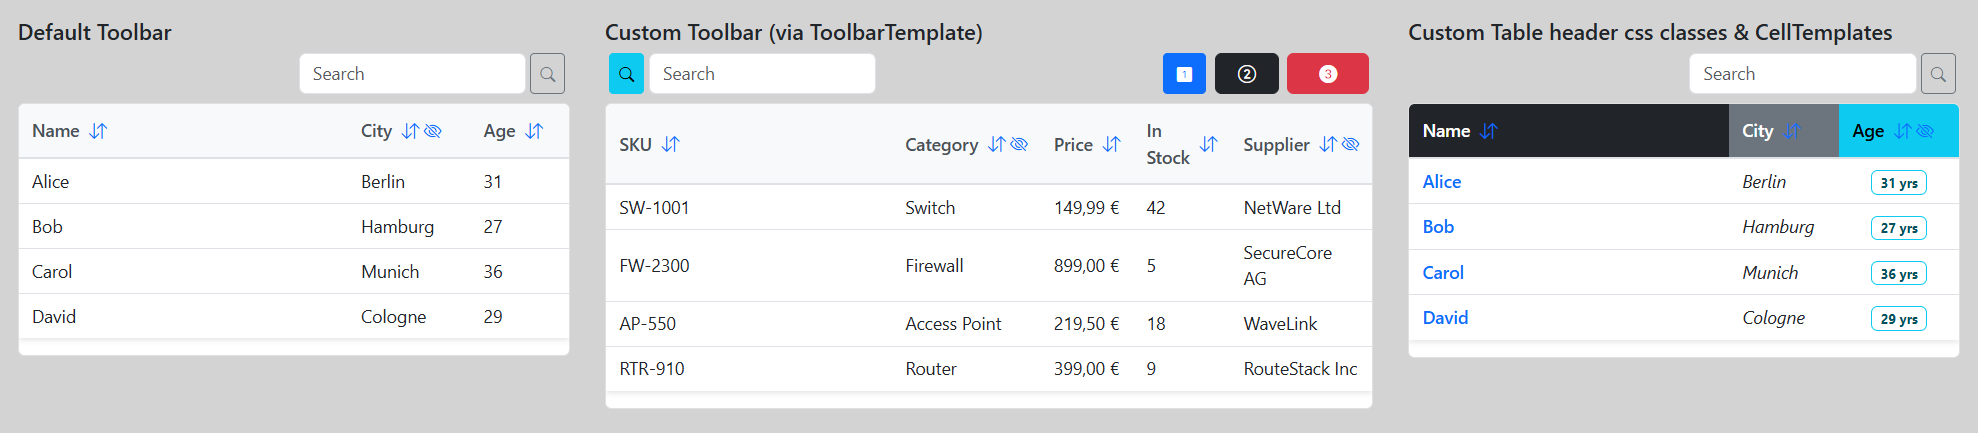
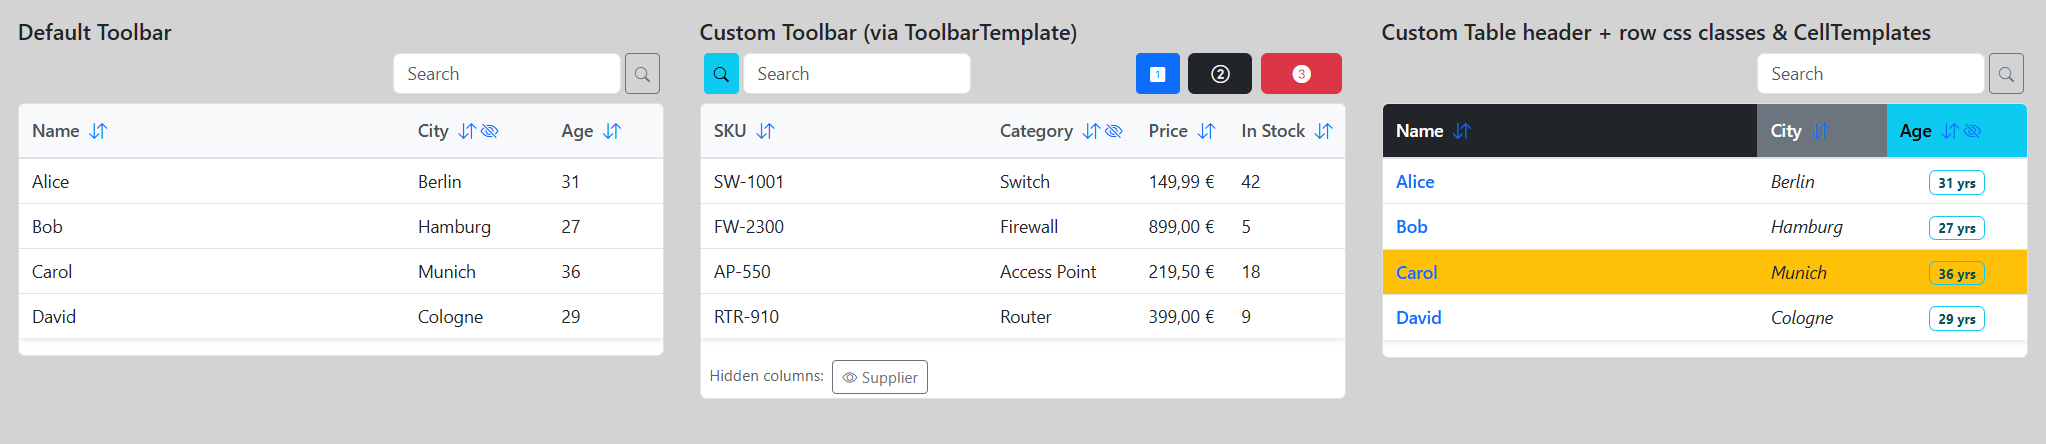
docs(README): expand and clarify usage and features
Significantly improve README documentation:
- Clarify search, sorting, and column visibility features, including fallback behaviors and configuration options.
- Add RowClassSelector to customization and parameters sections.
- Update column configuration table with default values and selector fallbacks.
- Streamline setup instructions for Bootstrap and Bootstrap Icons.
- Rewrite and expand usage examples to cover default/custom toolbars, row/cell/header styling, and cell templates, using new PersonRow and ProductRow records.
- Provide more realistic sample data and demonstrate advanced features.

diff --git a/README.md b/README.md
@@ -1,6 +1,6 @@
 # SoPro.FancyTable
 
-![](Playground.png)   
+![](Playground.png)
 
 A feature-rich, generic Blazor table component for displaying and interacting with collections of data.
 
@@ -11,28 +11,31 @@ A feature-rich, generic Blazor table component for displaying and interacting wi
 ## Features
 
 ### 🔍 Search
-- **Default search**: Automatically searches across all searchable columns
-- **Custom search predicates**: Define custom search logic via `SearchPredicate` parameter
-- **Debounced input**: Optimized search input with 250ms debounce to prevent excessive filtering
-- **Quick actions**: Search and clear buttons for manual control
+- **Default search**: Automatically searches across all columns where `Searchable = true`
+- **Custom search predicates**: Define custom search logic via `SearchPredicate`
+- **Debounced input**: Search input applies with a `250ms` debounce
+- **Immediate search on Enter**: Press `Enter` to apply the current search text immediately
+- **Quick actions**: Search/clear button behavior in the default toolbar
 - **Flexible search text**: Configure custom search text extraction per column via `SearchTextSelector`
 
 ### 📊 Sorting
 - **Column sorting**: Click sortable column headers to sort ascending or descending
-- **Visual indicators**: Icons show current sort state (bi-arrow-down-up, bi-sort-up, bi-sort-down)
+- **Visual indicators**: Icons show current sort state (`bi-arrow-down-up`, `bi-sort-up`, `bi-sort-down`)
 - **Custom sort values**: Define custom sort comparisons per column via `SortValueSelector`
+- **Fallback sort value**: Falls back to `ValueSelector` when `SortValueSelector` is not set
 - **Toggle direction**: Click the same column header again to reverse sort order
 
 ### 👁 Column Visibility
-- **Hide columns**: Eye-slash button on column headers to hide columns on demand
-- **Show hidden columns**: Dedicated section at the bottom displays hidden columns with restore buttons
-- **Flexible configuration**: Each column can be marked as hideable via configuration
+- **Hide columns**: Eye-slash button on hideable column headers hides columns on demand
+- **Show hidden columns**: Dedicated section below the table displays hidden columns with restore buttons
+- **Flexible configuration**: Each column can be marked as hideable via `Hideable`
 
 ### 🎨 Customization
-- **Custom toolbar**: Replace the default search bar with a custom toolbar template via `ToolbarTemplate`
-- **Column templates**: Render custom content in cells via `CellTemplate`
-- **Custom styling**: Apply custom CSS classes to headers and cells via `HeaderClass` and `CellClass`
-- **Search placeholder**: Customize the search input placeholder text
+- **Custom toolbar**: Replace the default search bar via `ToolbarTemplate`
+- **Column templates**: Render custom cell content via `CellTemplate`
+- **Header and cell styling**: Apply CSS classes via `HeaderClass` and `CellClass`
+- **Row styling**: Apply row CSS classes via `RowClassSelector`
+- **Search placeholder**: Customize the default search input placeholder via `SearchPlaceholder`
 
 ## Parameters
 
@@ -40,9 +43,10 @@ A feature-rich, generic Blazor table component for displaying and interacting wi
 |-----------|------|-------------|
 | `Items` | `IReadOnlyList<TItem>` | The data items to display in the table (required) |
 | `Columns` | `IReadOnlyList<FancyColumn<TItem>>` | Column configuration (required) |
-| `SearchPlaceholder` | `string` | Placeholder text for search input (default: "Search") |
-| `ToolbarTemplate` | `RenderFragment?` | Custom toolbar content; replaces default search bar |
+| `SearchPlaceholder` | `string` | Placeholder text for the default search input (default: `"Search"`) |
+| `ToolbarTemplate` | `RenderFragment?` | Custom toolbar content; replaces the default search bar |
 | `SearchPredicate` | `Func<TItem, string, bool>?` | Custom search logic; overrides default column-based search |
+| `RowClassSelector` | `Func<TItem, string?>?` | Returns CSS class(es) for each row |
 
 ## Column Configuration
 
@@ -53,7 +57,7 @@ Each column is configured using `FancyColumn<TItem>`:
 | `Key` | `string` | Unique identifier for the column |
 | `Title` | `string` | Display name shown in the header |
 | `Sortable` | `bool` | Whether the column can be sorted |
-| `Searchable` | `bool` | Whether the column is included in search (default: true) |
+| `Searchable` | `bool` | Whether the column is included in search (default: `true`) |
 | `Hideable` | `bool` | Whether the column can be hidden by the user |
 | `HeaderClass` | `string?` | CSS class applied to the header cell |
 | `CellClass` | `string?` | CSS class applied to data cells |
@@ -64,7 +68,7 @@ Each column is configured using `FancyColumn<TItem>`:
 
 ## Setup
 
-To use SoPro.FancyTable in your Blazor application, you need to include Bootstrap CSS and Bootstrap Icons in your app. Add the following links to your `App.razor` (or `_Host.cshtml` for Blazor Server) in the `<head>` section:
+To use SoPro.FancyTable in your Blazor application, include Bootstrap CSS and Bootstrap Icons in your app (`App.razor` / host page):
 
 ```html
 <link rel="stylesheet" href="https://cdn.jsdelivr.net/npm/bootstrap@5.3.7/dist/css/bootstrap.min.css" />
@@ -73,54 +77,192 @@ To use SoPro.FancyTable in your Blazor application, you need to include Bootstra
 
 ## Usage Example
 
+This example covers:
+- default toolbar
+- custom toolbar (`ToolbarTemplate`)
+- custom header/cell classes
+- custom cell template
+- row-level classes (`RowClassSelector`)
+
 ```csharp
 @page "/fancy-table-demo"
-@using YourNamespace.Components
 
-<FancyTable TItem="Person" Items="people" Columns="columns" />
+<div class="d-flex">
+    <div class="p-3 col">
+        <h5>Default Toolbar</h5>
+        <FancyTable TItem="PersonRow"
+                    Items="PeopleRows"
+                    Columns="PeopleColumns"
+                    SearchPlaceholder="Search name or city..." />
+    </div>
+
+    <div class="p-3 col">
+        <h5>Custom Toolbar (via ToolbarTemplate)</h5>
+        <FancyTable TItem="ProductRow"
+                    Items="ProductRows"
+                    Columns="ProductColumns">
+            <ToolbarTemplate>
+                <div class="d-flex">
+                    <button class="btn btn-sm btn-info mx-1">
+                        <i class="bi bi-search"></i>
+                    </button>
+                    <input class="form-control form-control-md" placeholder="Custom search UI" />
+                </div>
+            </ToolbarTemplate>
+        </FancyTable>
+    </div>
+
+    <div class="p-3 col">
+        <h5>Custom Table header + row css classes & CellTemplates</h5>
+        <FancyTable TItem="PersonRow"
+                    Items="PeopleRows"
+                    Columns="StyledPeopleColumns"
+                    RowClassSelector="GetPersonRowClass" />
+    </div>
+</div>
 
 @code {
-    private List<Person> people = new()
-    {
-        new Person { Id = 1, Name = "Alice", Email = "alice@example.com", Age = 30 },
-        new Person { Id = 2, Name = "Bob", Email = "bob@example.com", Age = 25 },
-    };
+    private IReadOnlyList<PersonRow> PeopleRows =
+    [
+        new("Alice", "Berlin", 31),
+        new("Bob", "Hamburg", 27),
+        new("Carol", "Munich", 36),
+        new("David", "Cologne", 29)
+    ];
 
-    private readonly List<FancyColumn<Person>> columns = new()
-    {
-        new FancyColumn<Person>
+    private IReadOnlyList<FancyColumn<PersonRow>> PeopleColumns =>
+    [
+        new FancyColumn<PersonRow>
         {
             Key = "name",
             Title = "Name",
             Sortable = true,
-            Hideable = true,
-            ValueSelector = p => p.Name,
+            Searchable = true,
+            ValueSelector = person => person.Name,
+            SortValueSelector = person => person.Name
         },
-        new FancyColumn<Person>
+        new FancyColumn<PersonRow>
         {
-            Key = "email",
-            Title = "Email",
+            Key = "city",
+            Title = "City",
             Sortable = true,
-            ValueSelector = p => p.Email,
+            Searchable = true,
+            Hideable = true,
+            ValueSelector = person => person.City,
+            SortValueSelector = person => person.City
         },
-        new FancyColumn<Person>
+        new FancyColumn<PersonRow>
         {
             Key = "age",
             Title = "Age",
             Sortable = true,
-            Hideable = true,
-            ValueSelector = p => p.Age,
-            SortValueSelector = p => p.Age, // Sort numerically
-        },
-    };
+            Searchable = false,
+            ValueSelector = person => person.Age,
+            SortValueSelector = person => person.Age
+        }
+    ];
 
-    public class Person
-    {
-        public int Id { get; set; }
-        public string Name { get; set; }
-        public string Email { get; set; }
-        public int Age { get; set; }
-    }
+    private IReadOnlyList<ProductRow> ProductRows =
+    [
+        new("SW-1001", "Switch", 149.99m, 42, "NetWare Ltd"),
+        new("FW-2300", "Firewall", 899.00m, 5, "SecureCore AG"),
+        new("AP-550", "Access Point", 219.50m, 18, "WaveLink"),
+        new("RTR-910", "Router", 399.00m, 9, "RouteStack Inc")
+    ];
+
+    private IReadOnlyList<FancyColumn<ProductRow>> ProductColumns =>
+    [
+        new FancyColumn<ProductRow>
+        {
+            Key = "sku",
+            Title = "SKU",
+            Sortable = true,
+            Searchable = true,
+            ValueSelector = product => product.Sku,
+            SortValueSelector = product => product.Sku,
+        },
+        new FancyColumn<ProductRow>
+        {
+            Key = "category",
+            Title = "Category",
+            Sortable = true,
+            Searchable = true,
+            Hideable = true,
+            ValueSelector = product => product.Category,
+            SortValueSelector = product => product.Category
+        },
+        new FancyColumn<ProductRow>
+        {
+            Key = "price",
+            Title = "Price",
+            Sortable = true,
+            Searchable = false,
+            ValueSelector = product => product.Price.ToString("C2"),
+            SortValueSelector = product => product.Price
+        },
+        new FancyColumn<ProductRow>
+        {
+            Key = "stock",
+            Title = "In Stock",
+            Sortable = true,
+            Searchable = false,
+            ValueSelector = product => product.Stock,
+            SortValueSelector = product => product.Stock
+        },
+        new FancyColumn<ProductRow>
+        {
+            Key = "supplier",
+            Title = "Supplier",
+            Sortable = true,
+            Searchable = true,
+            Hideable = true,
+            ValueSelector = product => product.Supplier,
+            SortValueSelector = product => product.Supplier
+        }
+    ];
+
+    private IReadOnlyList<FancyColumn<PersonRow>> StyledPeopleColumns =>
+    [
+        new FancyColumn<PersonRow>
+        {
+            Key = "styled-name",
+            Title = "Name",
+            Sortable = true,
+            Searchable = true,
+            HeaderClass = "text-bg-dark",
+            CellClass = "fw-semibold text-primary",
+            ValueSelector = person => person.Name,
+            SortValueSelector = person => person.Name
+        },
+        new FancyColumn<PersonRow>
+        {
+            Key = "styled-city",
+            Title = "City",
+            Sortable = true,
+            Searchable = true,
+            HeaderClass = "text-bg-secondary",
+            CellClass = "fst-italic",
+            ValueSelector = person => person.City,
+            SortValueSelector = person => person.City
+        },
+        new FancyColumn<PersonRow>
+        {
+            Key = "styled-age",
+            Title = "Age",
+            Sortable = true,
+            Searchable = false,
+            Hideable = true,
+            HeaderClass = "text-bg-info",
+            CellClass = "text-center",
+            SortValueSelector = person => person.Age,
+            CellTemplate = person => @<span class="badge text-bg-info-subtle border border-info text-info-emphasis">@person.Age yrs</span>
+        }
+    ];
+
+    private string? GetPersonRowClass(PersonRow person) => person.Age >= 35 ? "bg-warning" : null;
+
+    private sealed record PersonRow(string Name, string City, int Age);
+    private sealed record ProductRow(string Sku, string Category, decimal Price, int Stock, string Supplier);
 }
 ```
 
@@ -131,6 +273,6 @@ To use SoPro.FancyTable in your Blazor application, you need to include Bootstra
 
 ## License
 
-This project is licensed under the **MIT License**
+This project is licensed under the **MIT License**.
 
-Bootstrap and Bootstrap Icons are also licensed under the MIT License, which is one of the most permissive open-source licenses. This allows for unrestricted use, modification, and distribution of this project with minimal restrictions.
+Bootstrap and Bootstrap Icons are also licensed under the MIT License.
